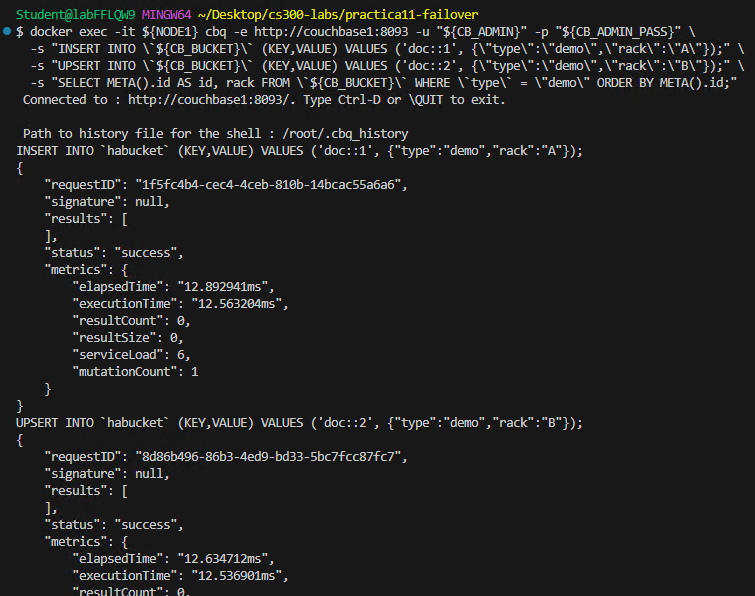
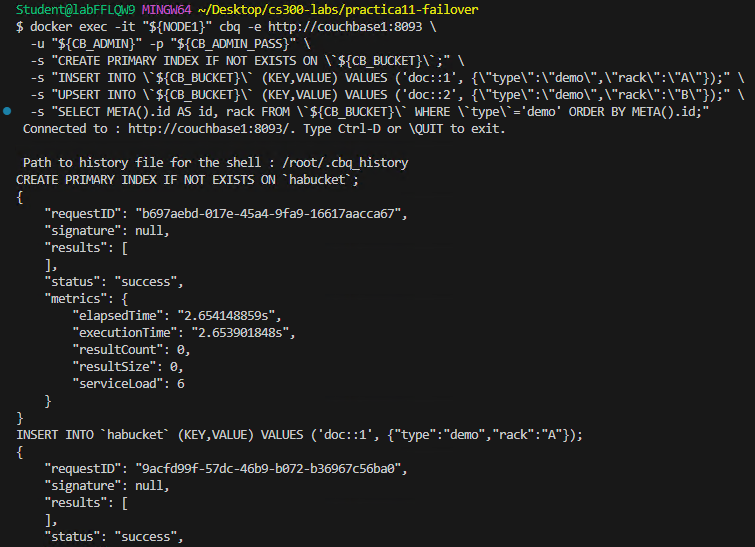
Ajustes de la practica 11 y 13

diff --git a/labs/lab11/lab11.md b/labs/lab11/lab11.md
@@ -300,10 +300,12 @@ Crearás un bucket con réplicas y cargarás algunos documentos para evaluar con
   {: .lab-note .info .compact}
 
   ```bash
-  docker exec -it ${NODE1} cbq -e http://couchbase1:8093 -u "${CB_ADMIN}" -p "${CB_ADMIN_PASS}" \
-    -s "INSERT INTO ${CB_BUCKET} (KEY,VALUE) VALUES ('doc::1', {type:'demo', rack:'A'});" \
-    -s "UPSERT INTO ${CB_BUCKET} (KEY,VALUE) VALUES ('doc::2', {type:'demo', rack:'B'});" \
-    -s "SELECT META().id, rack FROM ${CB_BUCKET} WHERE type='demo' ORDER BY META().id;"
+  docker exec -it "${NODE1}" cbq -e http://couchbase1:8093 \
+    -u "${CB_ADMIN}" -p "${CB_ADMIN_PASS}" \
+    -s "CREATE PRIMARY INDEX IF NOT EXISTS ON \`${CB_BUCKET}\`;" \
+    -s "INSERT INTO \`${CB_BUCKET}\` (KEY,VALUE) VALUES ('doc::1', {\"type\":\"demo\",\"rack\":\"A\"});" \
+    -s "UPSERT INTO \`${CB_BUCKET}\` (KEY,VALUE) VALUES ('doc::2', {\"type\":\"demo\",\"rack\":\"B\"});" \
+    -s "SELECT META().id AS id, rack FROM \`${CB_BUCKET}\` WHERE \`type\`='demo' ORDER BY META().id;"
   ```
   ![cbase10]({{ page.images_base | relative_url }}/10.png)
 
@@ -357,7 +359,7 @@ Detendrás un nodo para disparar el auto-failover y validarás que el clúster s
   ```
   ![cbase13]({{ page.images_base | relative_url }}/13.png)
 
-- **Paso 15.** Esperar al menos **30 segundos** y consulta los datos. Ejecuta el comando, ya espera los 30 segundos.
+- **Paso 15.** Esperar al menos **30 segundos** y consulta los datos. Ejecuta el siguiente comando que ya espera los 30 segundos.
 
   ```bash
   sleep $((AFO_TIMEOUT+5))
@@ -389,7 +391,7 @@ Reiniciarás `n3`, lo volverás a unir (si auto-failover ocurrió) y practicará
 
 - **Paso 17.** Levanta el nodo `n3` y unelo de nuevo. Ejecuta uno por uno los comandos.
 
-  > **IMPORTANTE:** Primero dale **2 minutos** al segundo rebalance. Si el segundo rebalance se atora ejecuta **`CTRL + C`** y vuelve a intentarlo.
+  > **IMPORTANTE:** Al segundo comando de **Rebalance** dale **4 minutos** de espera. Si el segundo rebalance se atora ejecuta **`CTRL + C`** y vuelve a intentarlo.
   {: .lab-note .important .compact}
 
   ```bash
@@ -426,7 +428,7 @@ Reiniciarás `n3`, lo volverás a unir (si auto-failover ocurrió) y practicará
 
 - **Paso 19.** Ahora para probar **force** primero debes rebalancear al nodo 2 y luego agregarlo. Ejecuta esta serie de comandos.
 
-  > **IMPORTANTE:** Primero dale **2 minutos** al segundo rebalance. Si el segundo rebalance se atora ejecuta **`CTRL + C`** y vuelve a intentarlo. **Si te marca error al final se debe a recursos/latencia vuelve a intentar el rebalance**
+  > **IMPORTANTE:** Al segundo comando de **Rebalance** dale **4 minutos** de espera. Si el segundo rebalance se atora ejecuta **`CTRL + C`** y vuelve a intentarlo. **Si te marca error al final se debe a recursos/latencia vuelve a intentar el rebalance**
   {: .lab-note .important .compact}
 
   ```bash
@@ -453,7 +455,8 @@ Reiniciarás `n3`, lo volverás a unir (si auto-failover ocurrió) y practicará
   ```bash
   docker exec -it ${NODE1} couchbase-cli failover \
     -c couchbase1 -u "${CB_ADMIN}" -p "${CB_ADMIN_PASS}" \
-    --server couchbase2 --force
+    --server-failover "${CB2_IP}:8091" \
+    --hard
   ```
   ![cbase19]({{ page.images_base | relative_url }}/19.png)
 

diff --git a/labs/lab13/lab13.md b/labs/lab13/lab13.md
@@ -333,7 +333,7 @@ Crearás un **índice covering** que cubra predicados y proyección para evitar 
   ```bash
   docker exec -it ${CB_CONTAINER} cbq -e http://127.0.0.1:8093 -u "${CB_ADMIN}" -p "${CB_ADMIN_PASS}" \
     -s "EXPLAIN SELECT name, price, brand
-        FROM \\\`${CB_BUCKET}\\\`.${CB_SCOPE}.${CB_COLLECTION}
+        FROM ${CB_BUCKET}.${CB_SCOPE}.${CB_COLLECTION}
         WHERE type='product' AND category='hardware' AND status='active'
         ORDER BY name;"
   ```
